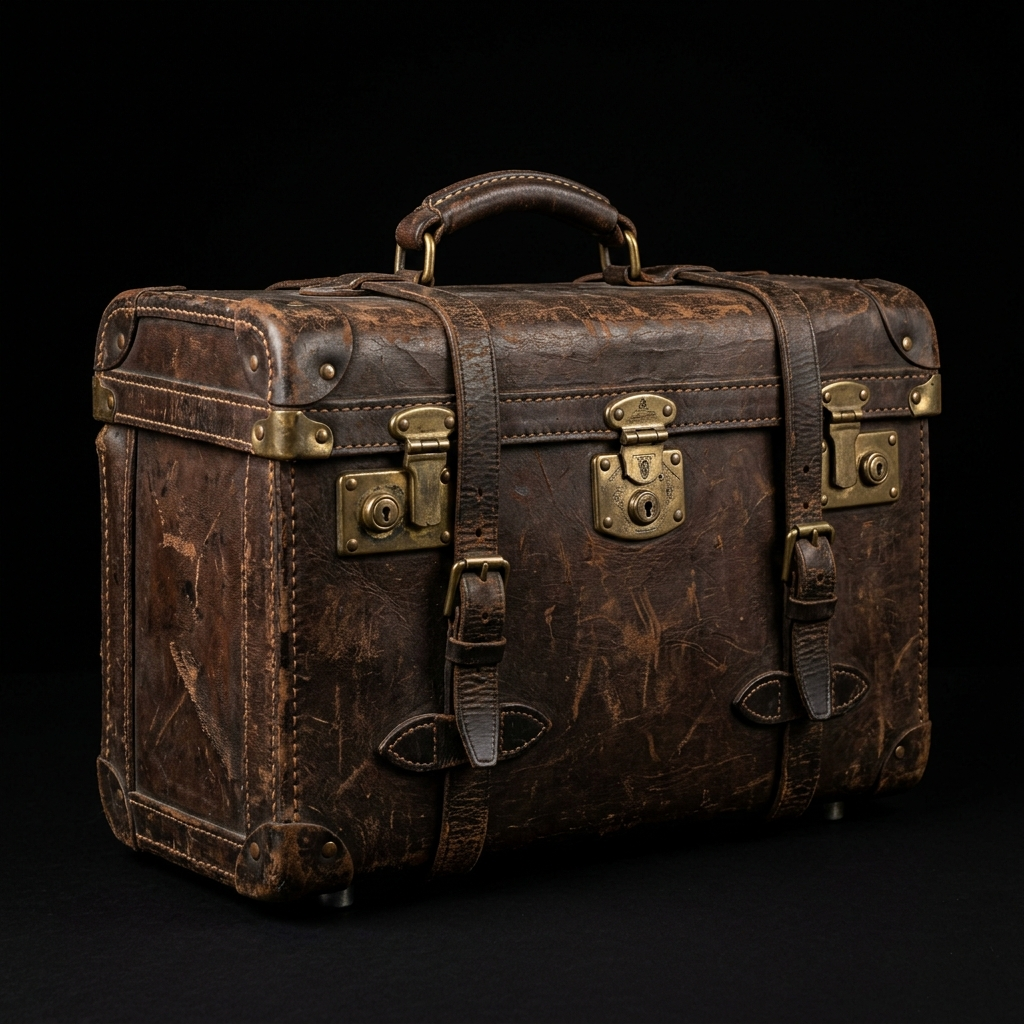
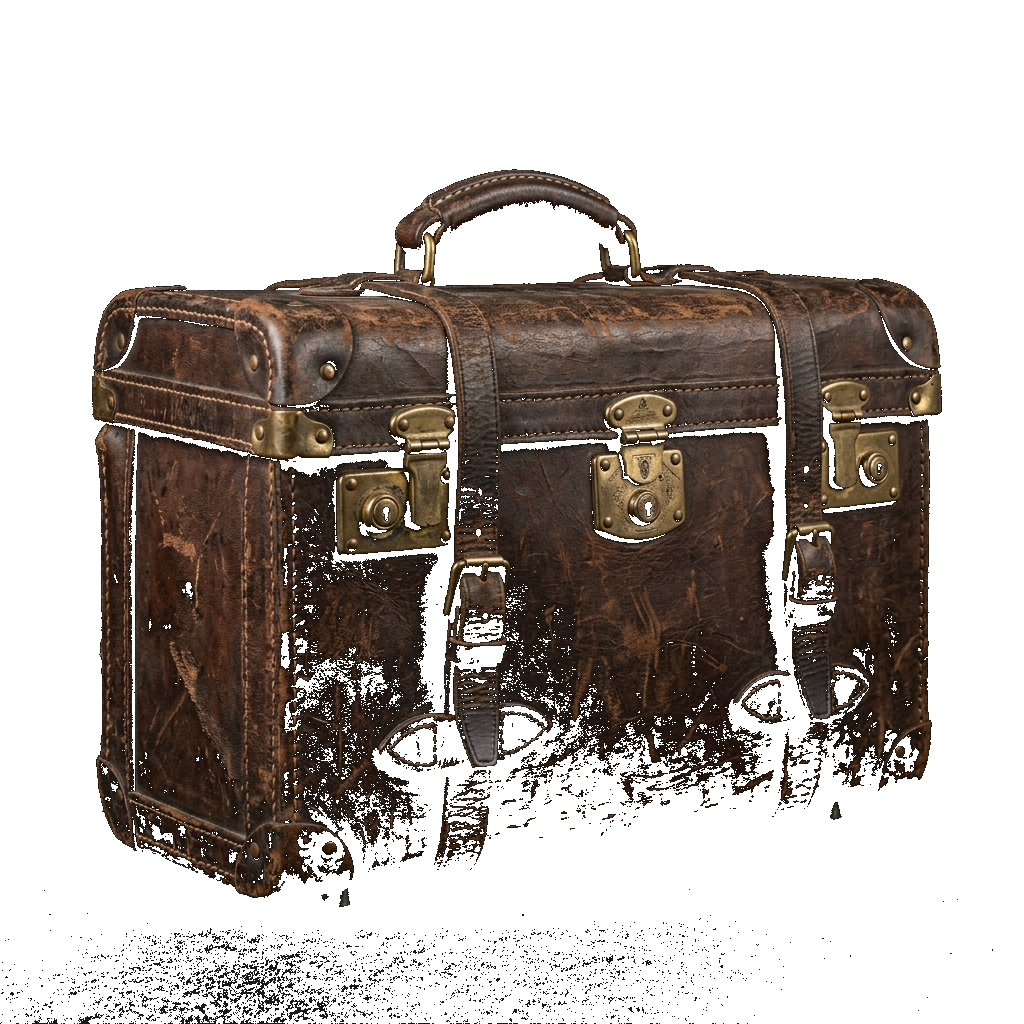
Remove black background from suitcase asset and remove mix-blend mode

diff --git a/src/App.jsx b/src/App.jsx
@@ -2445,7 +2445,7 @@ function StarterPack() {
             <img 
               src="/asset/vintage_suitcase.png" 
               alt="Vintage Suitcase" 
-              className="w-full h-auto object-contain mix-blend-lighten rotate-[15deg] filter drop-shadow-2xl" 
+              className="w-full h-auto object-contain rotate-[15deg] filter drop-shadow-2xl" 
             />
           </div>
         </div>